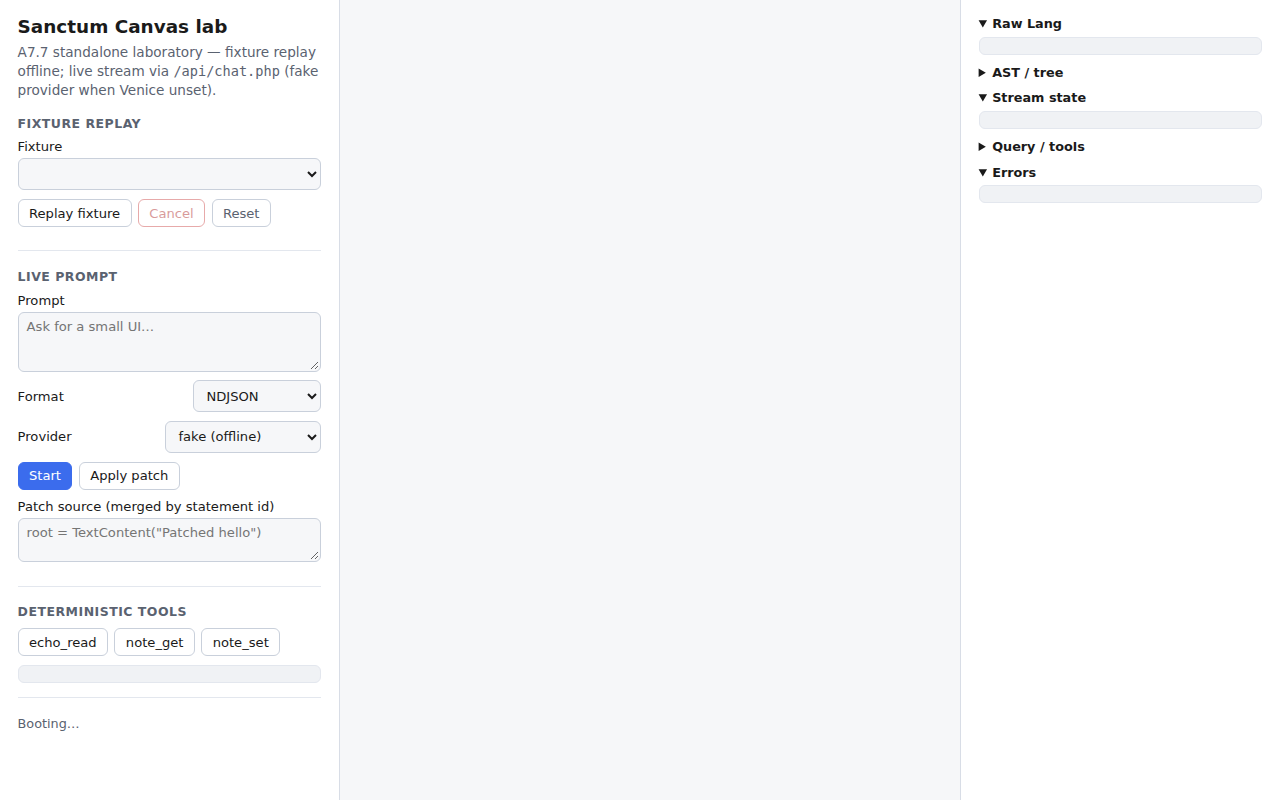
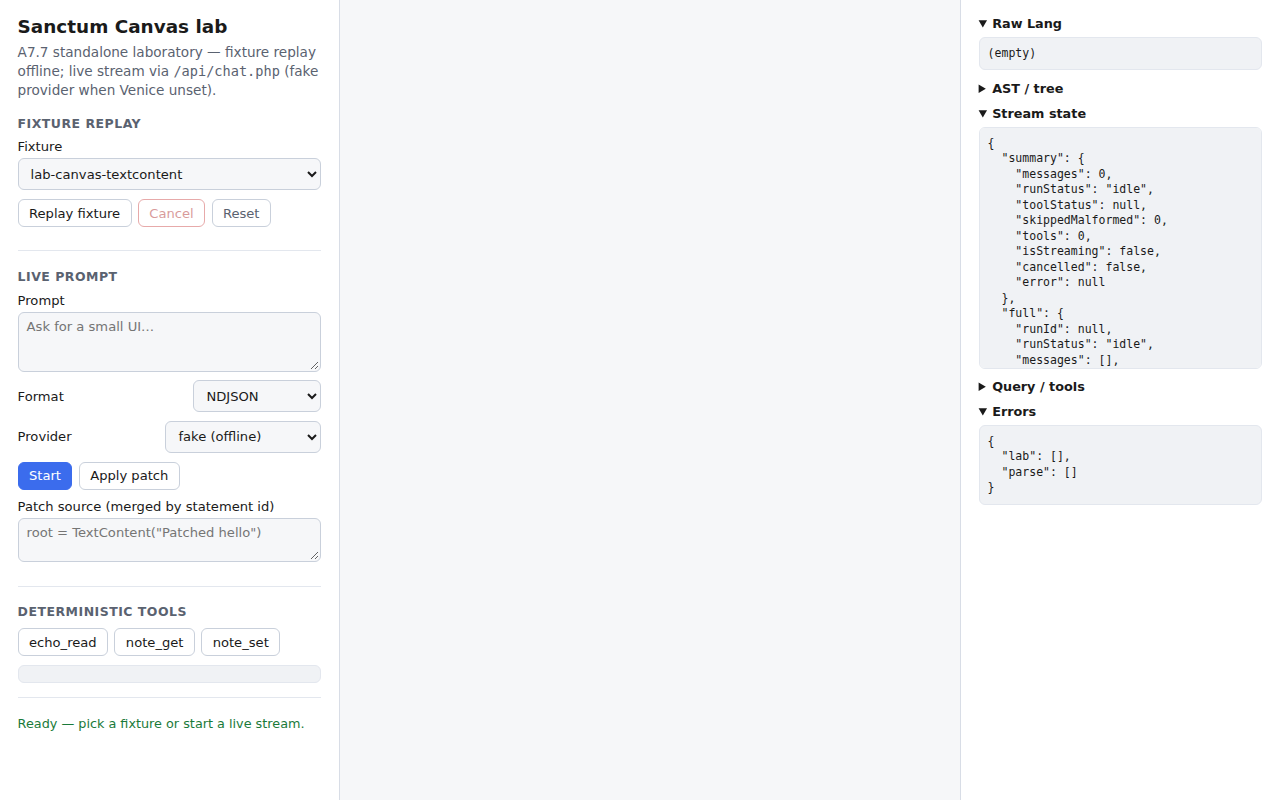
A7.8: evidence for named-URL lab smoke (HTTPS green)
Document canvas-lab review URL, Playwright results, and screenshots
after materialize sync; default smoke URL to HTTPS.

diff --git a/tools/design-smoke/verify_a7_named.py b/tools/design-smoke/verify_a7_named.py
@@ -23,7 +23,7 @@ ROOT = Path(__file__).resolve().parents[2]
 OUT = ROOT / "docs" / "track-a" / "screenshots" / "a7"
 OUT.mkdir(parents=True, exist_ok=True)
 
-DEFAULT_URL = "http://canvas-lab.decisionsciencecorp.com/index.php"
+DEFAULT_URL = "https://canvas-lab.decisionsciencecorp.com/index.php"
 
 _COMPANION_VENV = Path(
     "/root/projects/sanctum-companion-shell/tools/design-smoke/.venv/bin/python"

diff --git a/docs/track-a/A7-evidence.md b/docs/track-a/A7-evidence.md
@@ -1,0 +1,71 @@
+# A7 evidence — named laboratory URL (A7.8)
+
+**Date:** 2026-09-18  
+**Task:** [#4168](https://tasks.decisionsciencecorp.com/admin/view.php?id=4168) (phase parent [#4089](https://tasks.decisionsciencecorp.com/admin/view.php?id=4089))  
+**Repo:** `sanctum-canvas-ui`  
+**Commit:** `9ba6cff` — *A7.8: named-URL Playwright smoke for canvas-lab* (+ follow-up evidence)
+
+## Named URL (what a human can review)
+
+| | |
+|--|--|
+| **Review URL** | **https://canvas-lab.decisionsciencecorp.com/index.php** |
+| HTTP | Redirects to HTTPS (Let’s Encrypt live as of 2026-09-18; Ada). |
+| What you see | Standalone Sanctum Canvas laboratory: fixture replay, live prompt (`/api/chat.php`), deterministic tools, debug panes, canvas mount `#sanctum-canvas-root`. |
+
+Open the URL cold. After load, status should leave “Booting…”, the Fixture dropdown should list options, and **Replay fixture** on `lab-canvas-textcontent` should paint **Hello from lab fixture** in the center canvas.
+
+## Smoke tooling
+
+| Piece | Path |
+|-------|------|
+| Named-URL Playwright | `tools/design-smoke/verify_a7_named.py` |
+| Local lab (php -S child) | `tools/design-smoke/verify_a7_lab.py` (A7.7) |
+| Multihost asset fix | `tools/materialize-public-assets.py` — replaces `public/` symlinks with real copies so `rsync -a` deploy serves JS/fixtures |
+
+```bash
+/root/projects/sanctum-companion-shell/tools/design-smoke/.venv/bin/python \
+  tools/design-smoke/verify_a7_named.py
+# A7.8 named-URL smoke OK
+#   lab_ready: True
+#   fixture_replay: ok — TextContent fixture rendered
+```
+
+**Asserts (hard):** HTTP(S) 200, `#lab-fixture` present, `#sanctum-canvas-root` present, CSP meta with `script-src 'self'`.  
+**Optional (passed on live):** offline fixture replay → TextContent “Hello from lab fixture”.  
+**Viewports:** desktop 1280×800, mobile 390×844.
+
+## Screenshots (inspected)
+
+Under `docs/track-a/screenshots/a7/`:
+
+| File | What a human sees |
+|------|-------------------|
+| `a7-named-desktop-1280x800.png` | Desktop lab chrome + canvas after load |
+| `a7-named-mobile-390x844.png` | Mobile stack of the same page |
+| `a7-named-fixture-replay-desktop.png` | Fixture replay: canvas shows “Hello from lab fixture”; stream state `finished` |
+
+## Defects / notes from the A7.8 pass
+
+1. **First pass (pre-materialize):** Lab stuck on “Booting…” because `public/assets/js/*` and fixtures were **symlinks** into `src/` / `resources/` / `tests/`. Multihost `deploy.sh` rsyncs only `public/` and preserves symlinks → module **404**s. Fixed by materializing 181 files in `9ba6cff`; Ada sync landed tip `9ba6cff` on the box.
+2. **HTTPS:** Initially self-signed / pending; Ada then issued Let’s Encrypt. Prefer **https://** now. Early instruction used HTTP — both work (HTTP redirects).
+3. **Cosmetic:** Page subtitle still says “A7.7 standalone laboratory” — not a smoke failure.
+4. **Mobile:** Controls stack above canvas; usable, dense — expected for lab chrome, not product UI.
+
+## Status gate
+
+| Gate | Result |
+|------|--------|
+| Named URL exists and loads | Yes — HTTPS 200 |
+| Core Playwright smoke | Yes |
+| Fixture replay on named URL | Yes |
+| HTTPS cert | Yes (Ada LE, 2026-09-18 → 2026-12-17) |
+| A7 phase DoD (named URL reviewable) | **Met** |
+| Track A complete | **No** — A8 still open |
+
+## Human review checklist
+
+1. Open **https://canvas-lab.decisionsciencecorp.com/index.php**.
+2. Confirm status is not stuck on Booting.
+3. Fixture `lab-canvas-textcontent` → Replay → canvas shows “Hello from lab fixture”.
+4. Optional: Start with fake provider; Cancel / Reset; tool buttons.
